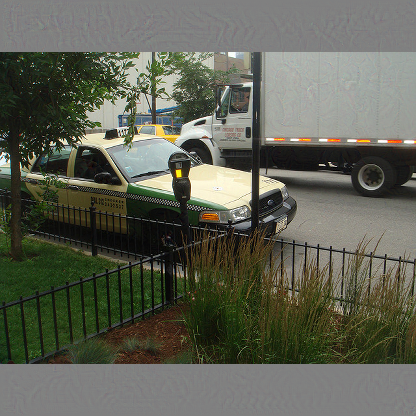
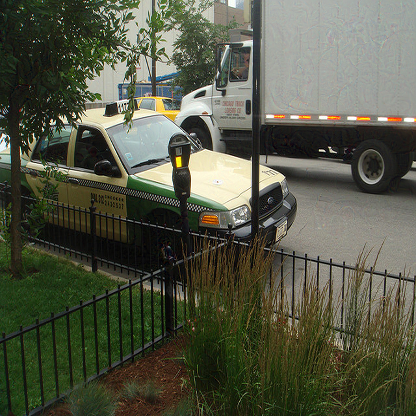
resizing logic update

diff --git a/detector/yolo_detector.py b/detector/yolo_detector.py
@@ -75,93 +75,71 @@ def load_yolo_model(cfgfile,weightsfile, reso ,CUDA = True):
 
 
 
-def detect_image(model, classes, num_classes, inp_dim, im_batches, im_dim_list, imlist, loaded_ims, batch_size, confidence, nms_thesh, CUDA = True):
+def detect_image(model, classes, num_classes, inp_dim, im_batches, im_dim_list, imlist, loaded_ims, batch_size, confidence, nms_thesh, CUDA=True):
     """
-    Perform detection on images
-    return output, imlist, loaded_ims
-    output: is a tensor of shape (N, 7) where N is the number of detections
-    ind 0: the index of the image in the batch
-    ind 1: x coordinate of the top left corner of the predicted bounding box
-    ind 2: y coordinate of the top left corner of the predicted bounding box
-    ind 3: x coordinate of the bottom right corner of the predicted bounding box
-    ind 4: y coordinate of the bottom right corner of the predicted bounding box
-    ind 5: objectness score of the prediction
-    ind 6: confidence of the prediction
-    ind 7: the index of the class detected
-    imlist: list of image paths
-    loaded_ims: list of loaded images
-
+    Perform detection on images (with aspect ratio distortion support)
     """
-    
-
-
-
     write = 0
     output = None
 
     if CUDA:
         im_dim_list = im_dim_list.cuda()
-        
 
     for i, batch in enumerate(im_batches):
-    #load the image 
-
         if CUDA:
             batch = batch.cuda()
 
-        batch.requires_grad = True  
-
-        with torch.enable_grad():  
+        with torch.no_grad():  # Disable gradient calculation
             prediction = model(batch, CUDA)
         
-        prediction = write_results(prediction, confidence, num_classes, nms_conf = nms_thesh)
+        prediction = write_results(prediction, confidence, num_classes, nms_conf=nms_thesh)
 
-
-
-        if type(prediction) == int:
-
-            for im_num, image in enumerate(imlist[i*batch_size: min((i +  1)*batch_size, len(imlist))]):
+        if isinstance(prediction, int):  # No detections
+            for im_num, image in enumerate(imlist[i*batch_size: min((i+1)*batch_size, len(imlist))]):
                 im_id = i*batch_size + im_num
+                print(f"Image {im_id}: No detections")
             continue
 
-        prediction[:,0] += i*batch_size    #transform the atribute from index in batch to index in imlist 
+        # Map detection indices to original image order
+        prediction[:, 0] += i * batch_size
 
-        if not write:                      #If we have't initialised output
-            output = prediction  
-            write = 1
-        else:
-            output = torch.cat((output,prediction))
+        # Aggregate predictions
+        output = prediction if not write else torch.cat((output, prediction))
+        write = 1
 
-        for im_num, image in enumerate(imlist[i*batch_size: min((i +  1)*batch_size, len(imlist))]):
+        # Print detected objects
+        for im_num, image in enumerate(imlist[i*batch_size: min((i+1)*batch_size, len(imlist))]):
             im_id = i*batch_size + im_num
             objs = [classes[int(x[-1])] for x in output if int(x[0]) == im_id]
-            print("----------------------------------------------------------")
-            print("{0:20s} {1:s}".format("Objects Detected:", " ".join(objs)))
-            print("----------------------------------------------------------")
+            print("-"*58)
+            print(f"{'Objects Detected:':20s} {' '.join(objs)}")
+            print("-"*58)
 
-        if CUDA:
-            torch.cuda.synchronize()       
     if output is None:
         print("No detections were made")
         return output, imlist, loaded_ims
 
-    
-    im_dim_list = torch.index_select(im_dim_list, 0, output[:,0].long())
+    # ========== Critical Scaling Section ========== #
+    # Get original dimensions for each detection
+    im_dim_list = torch.index_select(im_dim_list, 0, output[:, 0].long())
 
-    scaling_factor = torch.min(416/im_dim_list,1)[0].view(-1,1)
+    # Calculate independent scaling factors
+    width_scale = (im_dim_list[:, 0] / inp_dim).view(-1, 1)  # original_w / resized_w
+    height_scale = (im_dim_list[:, 1] / inp_dim).view(-1, 1)  # original_h / resized_h
 
+    # Scale bounding box coordinates
+    output[:, [1, 3]] *= width_scale   # x1, x2
+    output[:, [2, 4]] *= height_scale  # y1, y2
 
-    output[:,[1,3]] -= (inp_dim - scaling_factor*im_dim_list[:,0].view(-1,1))/2
-    output[:,[2,4]] -= (inp_dim - scaling_factor*im_dim_list[:,1].view(-1,1))/2
+    # Clamp coordinates to image boundaries
+    min_val = torch.tensor(0.0, device=output.device)  # Tensor for min (0.0)
+    max_width = im_dim_list[:, 0].view(-1, 1)
+    max_height = im_dim_list[:, 1].view(-1, 1)
 
+    output[:, [1, 3]] = torch.clamp(output[:, [1, 3]], min=min_val, max=max_width)
+    output[:, [2, 4]] = torch.clamp(output[:, [2, 4]], min=min_val, max=max_height)
+    # ============================================== #
 
-
-    output[:,1:5] /= scaling_factor
-
-    for i in range(output.shape[0]):
-        output[i, [1,3]] = torch.clamp(output[i, [1,3]], 0.0, im_dim_list[i,0])
-        output[i, [2,4]] = torch.clamp(output[i, [2,4]], 0.0, im_dim_list[i,1])
-    
     return output, imlist, loaded_ims
 
 
@@ -213,7 +191,16 @@ if __name__ == "__main__":
     start = 0
     CUDA = torch.cuda.is_available()
 
-    model, classes, num_classes, inp_dim = load_yolo_model(args.cfgfile,args.weightsfile, args.reso ,CUDA = CUDA)
-    output, imlist, loaded_ims = detect_image(model, classes, num_classes, inp_dim, images, batch_size, confidence, nms_thesh,args.det, CUDA = CUDA)
-    draw_boxes(loaded_ims,output,imlist,classes, args.det)
-
+    model, classes, num_classes, inp_dim = load_yolo_model(args.cfgfile, args.weightsfile, args.reso, CUDA=CUDA)
+    
+    # Prepare images: ADD THIS STEP
+    im_batches, im_dim_list, imlist, loaded_ims = prepare_image(images, inp_dim, batch_size)
+    
+    # Correctly pass parameters to detect_image
+    output, imlist, loaded_ims = detect_image(
+        model, classes, num_classes, inp_dim,
+        im_batches, im_dim_list, imlist, loaded_ims,
+        batch_size, confidence, nms_thesh, CUDA=CUDA
+    )
+    
+    draw_boxes(loaded_ims, output, imlist, classes, args.det)

diff --git a/detector/util.py b/detector/util.py
@@ -31,7 +31,7 @@ def prepare_image(images, inp_dim, batch_size = 1):
 
     im_batches = list(map(prep_image, loaded_ims, [inp_dim for x in range(len(imlist))]))
     im_dim_list = [(x.shape[1], x.shape[0]) for x in loaded_ims]
-    im_dim_list = torch.FloatTensor(im_dim_list).repeat(1,2)
+    im_dim_list = torch.FloatTensor(im_dim_list)
 
 
     leftover = 0
@@ -250,16 +250,26 @@ def letterbox_image(img, inp_dim):
     
     return canvas
 
+def resize_image(img, inp_dim):
+    """
+    Resize image to the specified dimensions without maintaining aspect ratio.
+    - img: Input image (numpy array, HxWxC).
+    - inp_dim: Target dimensions (width, height).
+    """
+    # Resize the image to the target dimensions
+    resized_image = cv2.resize(img, inp_dim, interpolation=cv2.INTER_CUBIC)
+    return resized_image
+
 def prep_image(img, inp_dim):
     """
     Prepare image for inputting to the neural network. 
-    
-    Returns a Variable 
     """
-    img = (letterbox_image(img, (inp_dim, inp_dim)))
-    img = img[:,:,::-1].transpose((2,0,1)).copy()
+    # Use your new resize function
+    img = resize_image(img, (inp_dim, inp_dim))  # Resize without padding
+    img = img[:,:,::-1].transpose((2,0,1)).copy()  # BGR → RGB | HWC → CHW
     img = torch.from_numpy(img).float().div(255.0).unsqueeze(0)
     return img
+
 
 def load_classes(namesfile):
     fp = open(namesfile, "r")
